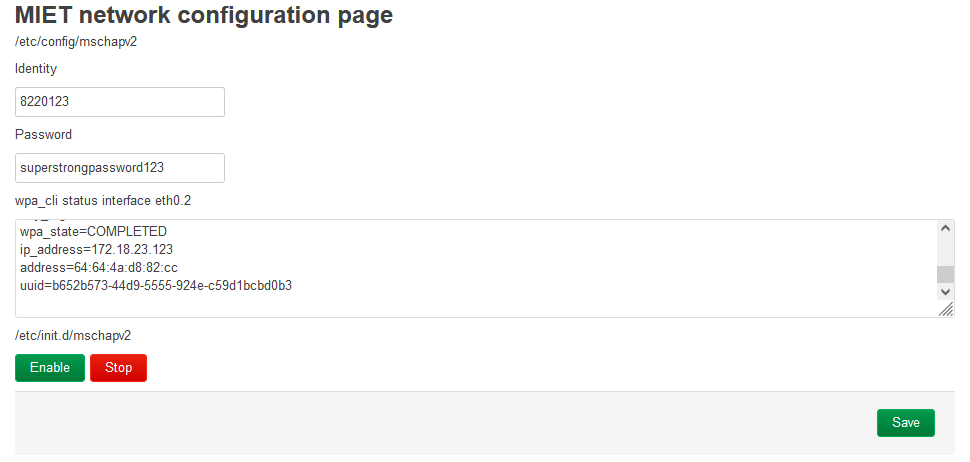
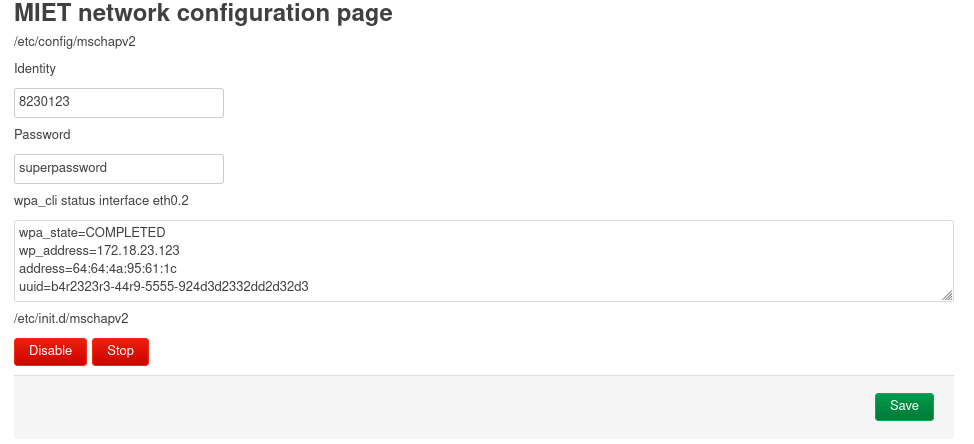
rework owrt guide

diff --git a/4-setup-owrt.md b/4-setup-owrt.md
@@ -1,15 +1,31 @@
 # Настройка роутера OpenWRT (TP-Link, Xiaomi)
 
-Подключаетесь к роутеру по вайфаю или проводу. Заходите на 192.168.1.1.
+## 1. Вход в админку
+
+Подключаетесь к роутеру по вайфаю или проводу. В браузере в адресной строке вбиваете адрес `http://192.168.1.1/` либо `http://openwrt.lan/` (даже, если винда пишет "без доступа к интернету"). Вас перенаправит на админку роутера (http://192.168.1.1/cgi-bin/luci/)
+
+<p align="center">
+<img src="img/owrt/image25.png">
+</p>
+
+Вход в админку с логином root и без пароля. Позднее его можно установить на вкладке System - Administration.
+
+<p align="center">
+<img src="img/owrt/image26.png?">
+</p>
+
+Интерфейс LuCI для ОС OpenWRT выглядит следующим образом.
 
 <p align="center">
 <img src="img/owrt/image9.png">
 </p>
 
-## Подмена MAC адреса (если ранее был подключен без роутера)
+## 2. Подмена MAC адреса (если ранее был подключен без роутера)
 
 __[Как узнать MAC адрес и какой мне нужен](./6-macaddr.md) - помощь__
 
+* Подмена MAC адреса не требуется, если ранее тариф провайдера не подключался, и нет активных устройств к подключением к Интернету на данной учетной записи МИЭТ. Тогда раздел можно пропустить.
+* Если раньше было настроено устройство - подменяем мак адрес WAN интерфейса здесь.
 
 В интерфейсе переходим на вкладку Network - Interfaces.
 Там подвкладка Devices.
@@ -20,10 +36,9 @@ __[Как узнать MAC адрес и какой мне нужен](./6-macad
 
 <p align="center"><img src="img/owrt/image17.png"></p>
 
+Узнаём MAC адрес устройства, на котором ранее осуществлялось подключение.
 
-Смотрим на MAC, который был на компьютере, использованном для первоначальной настройки роутера. 
-
-<p align="center"><img src="img/image11.png"></p>
+__[Как узнать MAC адрес и какой мне нужен](./6-macaddr.md) - помощь__
 
 Вписываем его на место существующего MAC адреса.
 
@@ -40,78 +55,96 @@ __Заметка:__ в ранних версиях OpenWRT подвкладки 
 
 Как правило, здесь ничего трогать не нужно - DHCP стоит по умолчанию. __Статический IP прописывать не нужно, не заработает__.
 
-## Настройка Wi-Fi
+## 3. Настройка Wi-Fi
 
-Переходим на страницу Network - Wireless.
+Переходим на страницу __Network - Wireless__.
 
 По умолчанию Wi-Fi в прошивке выключен.
 
-Нам доступны radio0 – 2.4 ГГц модем и radio1 – 5 ГГц модем (если роутер двухдиапазонный). При каждом из них выключенные ненастроенные точки доступа с названием OpenWRT. Каждую из них редактируем через Edit.
+Если роутер однодиапазонный, будет доступна только сеть 2.4 ГГц с радиомодулем radio0. Если двухдиапазонный, будет еще radio1, отвечающий за 5 ГГц.
 
 __Сначала настроим 2.4 ГГц сеть (radio0)__
 
 <p align="center"><img src="img/owrt/image18.png"></p>
 
-Нажимаем Edit напротив сети, у которой изначально название OpenWrt. Раздел General Setup можно пока не трогать, меняем в разделе Interface Configuration. Здесь можно ручками выставить канал 2.4 ГГц.
+Нажимаем Edit напротив сети, у которой изначально название OpenWrt. Раздел General Setup (верхняя половина) можно пока не трогать.
 
 <p align="center"><img src="img/owrt/image21.png"></p>
 
+Настройки производим в разделе Interface Configuration (нижняя половина).
 
-__1. General Setup (тут меняем SSID)__
+__3.1. General Setup (здесь устанавливается название сети ESSID)__
 
 <p align="center"><img src="img/owrt/image12.png"></p>
 
-__2. Wireless Security (тут пароль и шифрование)__
+__3.2. Wireless Security (меняем пароль key и ставим шифрование WPA2-PSK)__
 
 <p align="center"><img src="img/owrt/image13.png" ></p>
 
-Сохраняем настройки: Save. Можно сразу нажать Enable выше, и сеть автоматически применит настройки и включится. 
+Сохраняем настройки: Save. Под интерфейсом будет указано: Interface has 3 pending changes. Это означает, что настройки будут изменены, но сейчас ожидают подтверждения.
 
 <p align="center"><img src="img/owrt/image20.png"></p>
+
+Можно нажать на Save&Apply внизу страницы либо продолжить настройку точки доступа 5 ГГц.
+
+<p align="center"><img src="img/owrt/image23.png"></p>
 
 
 __Настройки для 5 ГГц (radio1) чуть сложнее__
 
+Под радиомодулем radio1 будет такая же заготовка под точку доступа, но уже в диапазоне 5 ГГц.
+
 <p align="center"><img src="img/owrt/image19.png"></p>
 
-__3. General Setup (тут меняем SSID)__
+__3.3. General Setup (здесь устанавливается название сети ESSID)__
 
 <p align="center"><img src="img/owrt/image12.png"></p>
 
-__4. Wireless Security (тут пароль и шифрование)__
+__3.4. Wireless Security (меняем пароль key и ставим шифрование WPA2-PSK)__
 
 <p align="center"><img src="img/owrt/image13.png" ></p>
 
-__5. Advanced Settings в Device Configuration__
-Здесь необходимо выставить Contry Code RU
+__3.5. Advanced Settings в Device Configuration__
+
+Здесь необходимо выставить Contry Code RU:
+
 <p align="center"><img src="img/owrt/image22.png" ></p>
 
-Теперь нужно сохранить настройки через Save и затем Save&Apply. Но на этом мы не закончили.
+Теперь нужно сохранить настройки через Save и затем Save&Apply. Тогда для сети применятся основные настройки.
 
 <p align="center"><img src="img/owrt/image20.png"></p>
 
 <p align="center"><img src="img/owrt/image23.png"></p>
 
-Завершающим элементом будет выбрать вручную канал, на котором мы будем работать. Списки доступных каналов меняются не сразу, а после применения кода страны. Поэтому возвращаемся в настройки 5 ГГц Wi-Fi.
+Однако здесь ещё не всё - после выставления правильного кода страны мы можем установить нужный нам канал Wi-Fi.
 
-__6. General Setup в Device Configuration__
+__3.6. General Setup в Device Configuration__
 
-И выбираем здесь канал для работы 5 ГГц. Только после установки кода страны они будут работать все, а не только 36.
+Снова открываем для редактирования точку доступа 5 ГГц, Edit. Настройки в разделе General Setup в верхней половине.
+Выбираем здесь канал для работы 5 ГГц через выпадающее меню. 
 
 <p align="center"><img src="img/owrt/image24.png"></p>
 
-Дальше можно сохранять и включать сеть.
+Save, Save & Apply.
 
+__3.7. Включение__
 
-__Вот так это будет выглядеть__
+Теперь можно включить обе сети.
 
+<p align="center"><img src="img/owrt/image28.png"></p>
+
+Стоит обратить внимание, что Enable работает и внутри настроек Edit для точки доступа - тогда можно не выходить из этого меню, нажимая Save, а сразу активировать точку доступа - настройки оно тоже применит.
+
+<p align="center"><img src="img/owrt/image27.png"></p>
+Стоит обратить, что на 5 ГГц будет стоять выбранный нами канал.
+
+__Вот так это будет выглядеть с уже подключенными клиентами:__
 
 <p align="center"><img src="img/owrt/image14.png"></p>
 
 
-После сохранения включаем точки доступа (Enable). Если все устройства поддерживают 5 ГГц, то включать 2.4 ГГц не обязательно.
 
-## Настройка времени
+## 4. Настройка времени
 
 На вкладке System – System нажимаем Sync with browser рядом с полем текущего времени. Оно может отличаться от системного на 3 часа, как правило, не играет роли. Достаточно, чтобы совпадала дата.
 
@@ -119,20 +152,20 @@ __Вот так это будет выглядеть__
 
 Точно так же Save & Apply.
 
-## Настройка авторизации в сети МИЭТ
+## 5. Настройка авторизации в сети МИЭТ
 На вкладке MIET (в ранних версиях модуля – Interfaces – mschapv2) устанавливаем логин и пароль от ОРИОКС.
 Сохраняем кнопкой Save.
 
-<p align="center"><img src="img/owrt/image16.png"></p>
+<p align="center"><img src="img/owrt/image16.png?"></p>
 
-На вкладке имеются кнопки Enable/Disable и Start/Stop, отвечающие за автоматический-при-включении и ручной соответственно запуск сервиса авторизации. Корректное состояние - обе включены (красные). Если зеленые, включаем.
+__Disable/Enable__ отвечает за автозапуск сервиса при включении
+
+__Stop/Start__ отвечает за запуск службы авторизации в настоящее время
 
 __Заметка__. Если любое действие на вкладке выпадает в ошибку, это старая версия модуля и придется ручками [по инструкции, раздел 802.1x](./4-setup-owrt-cli.md).
 
-__Про логи__.
-На вкладке присутствует поле, выводящее результат команды wpa_cli. На нём можно видеть статус авторизации и присвоенный ip адрес. Полезно при диагностике.
 
-__6. Перезагрузка__
+## 6. Перезагрузка
 
 Чтобы все норм заработало, перезагружаем роутер.
 

diff --git a/6-skylab.md b/6-skylab.md
@@ -5,3 +5,6 @@
 Выполните в пуске поиск программы "Подключение к удаленному рабочему столу".
 
 На вкладке "Дополнительно" выберите "Проверка поклинности сервера" - "Не предупреждать".
+ 
+
+ так сорян я чуть позже его доделаю)
